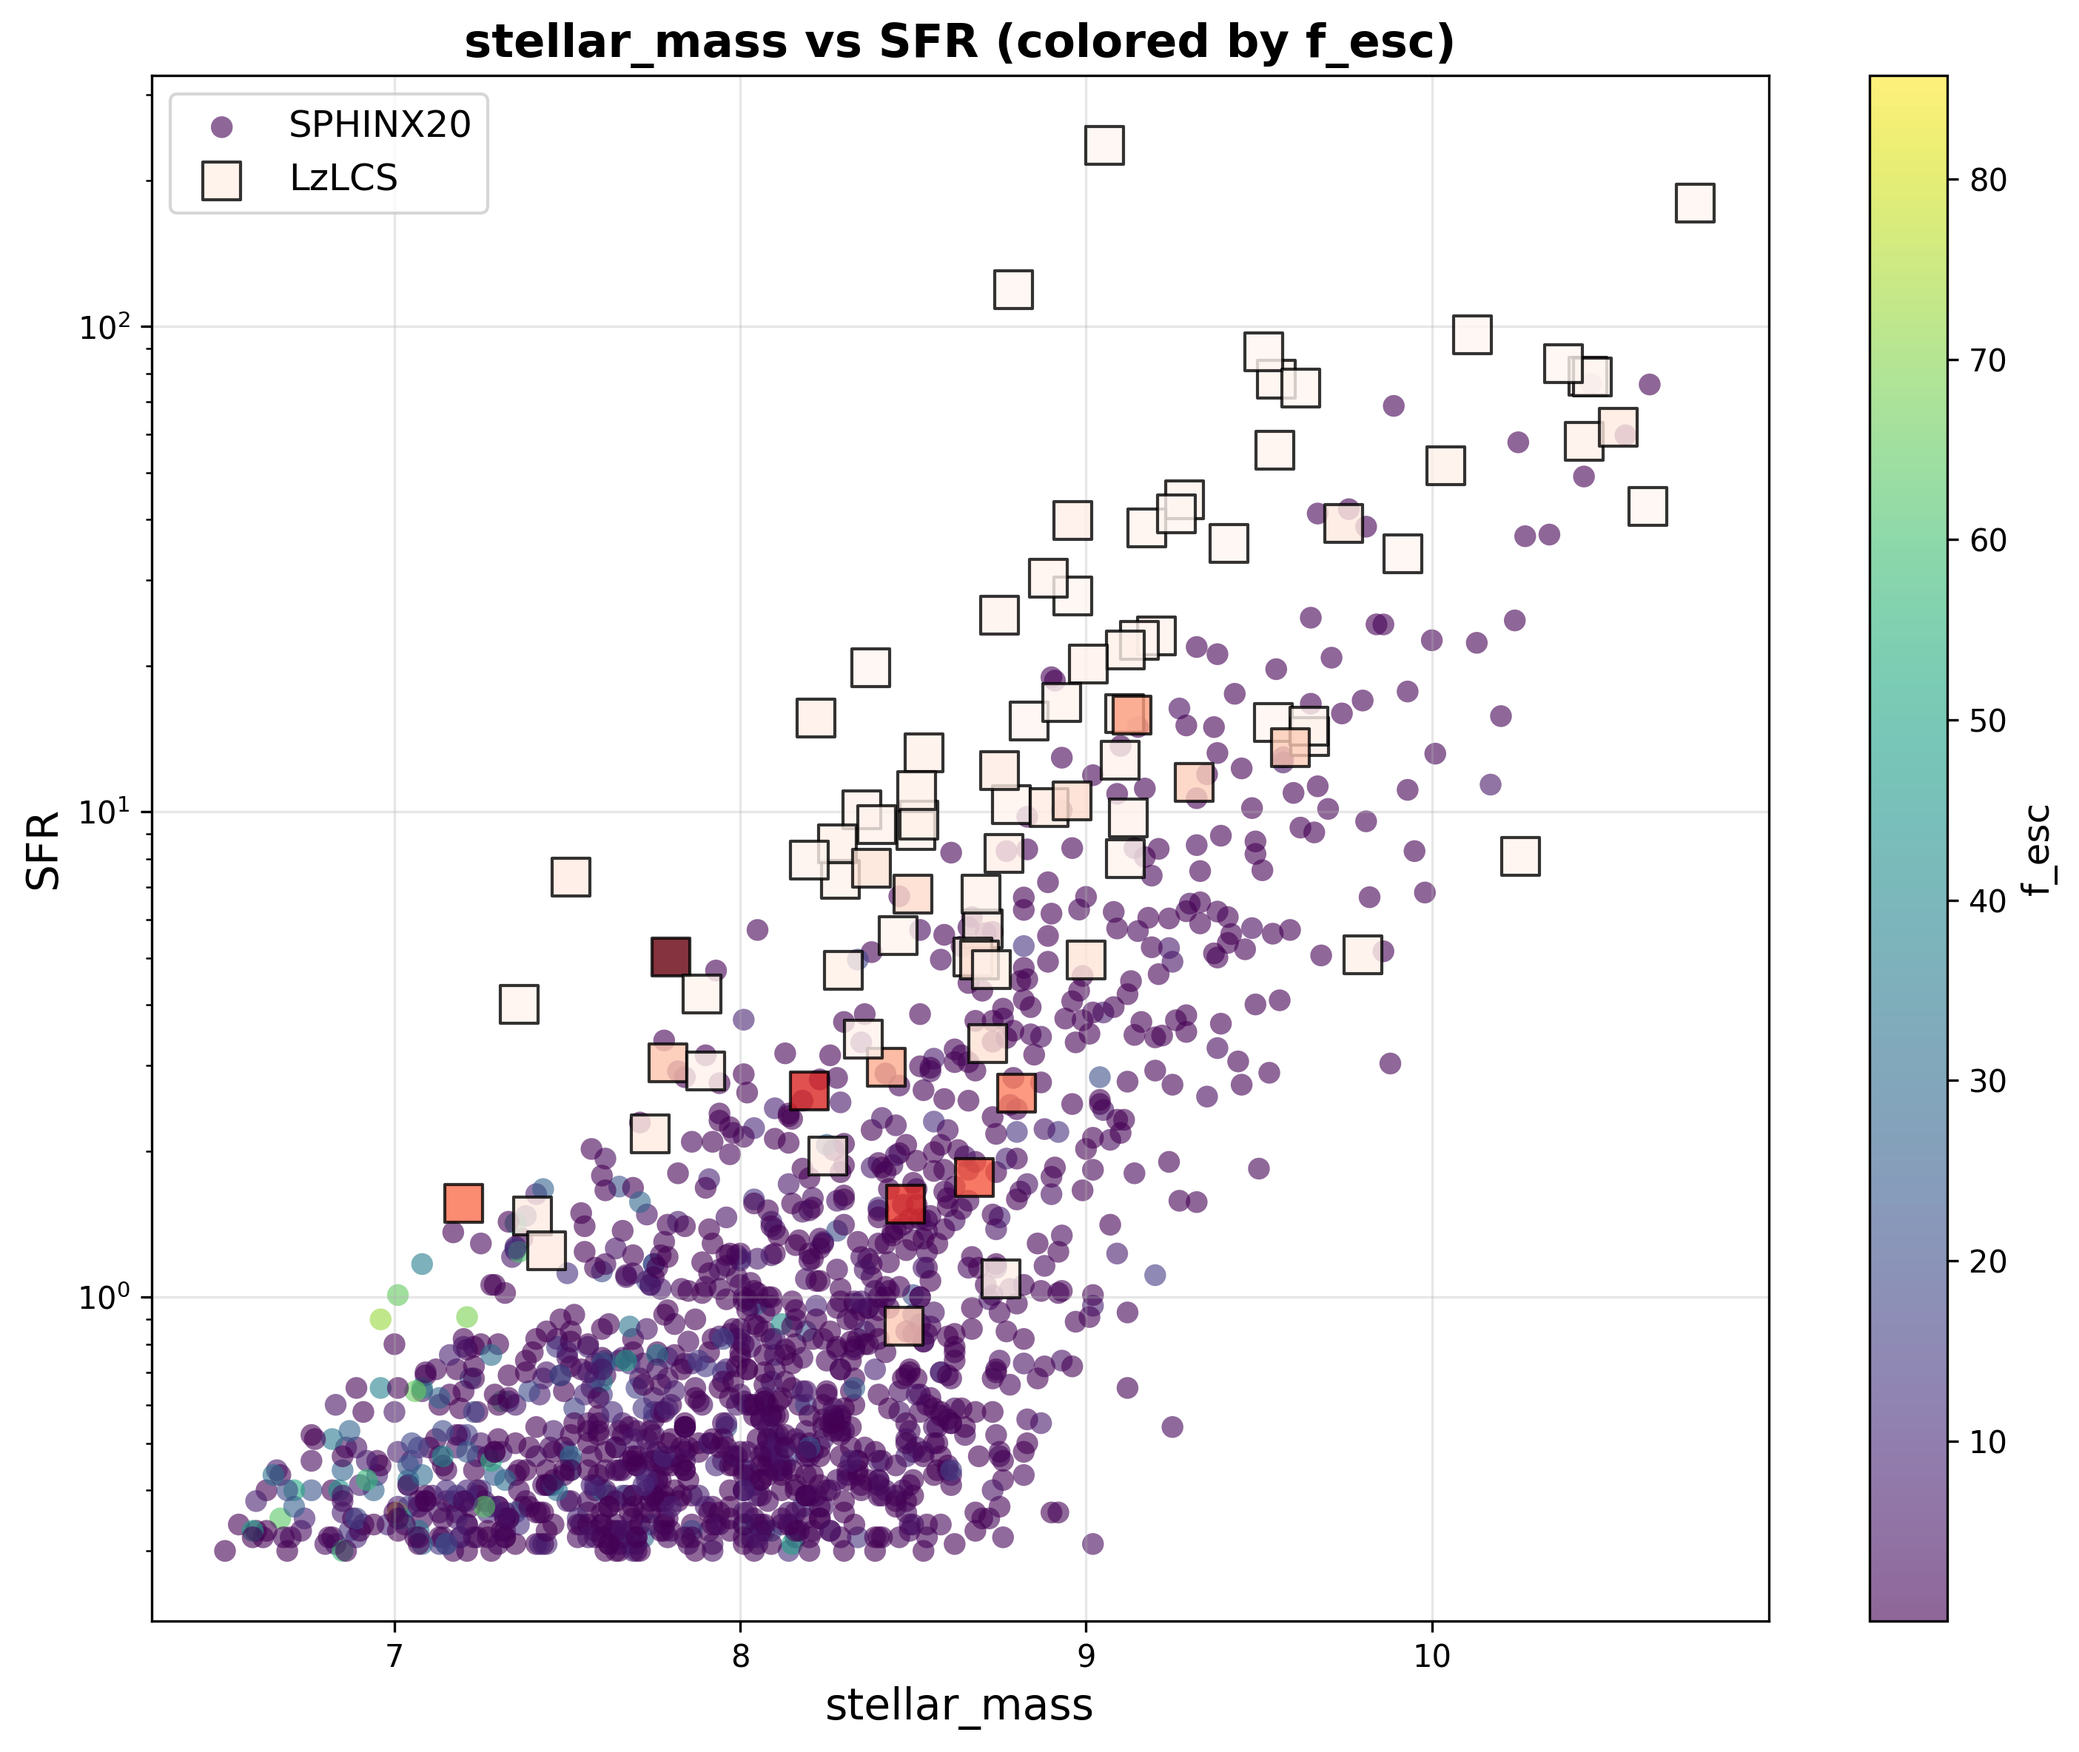
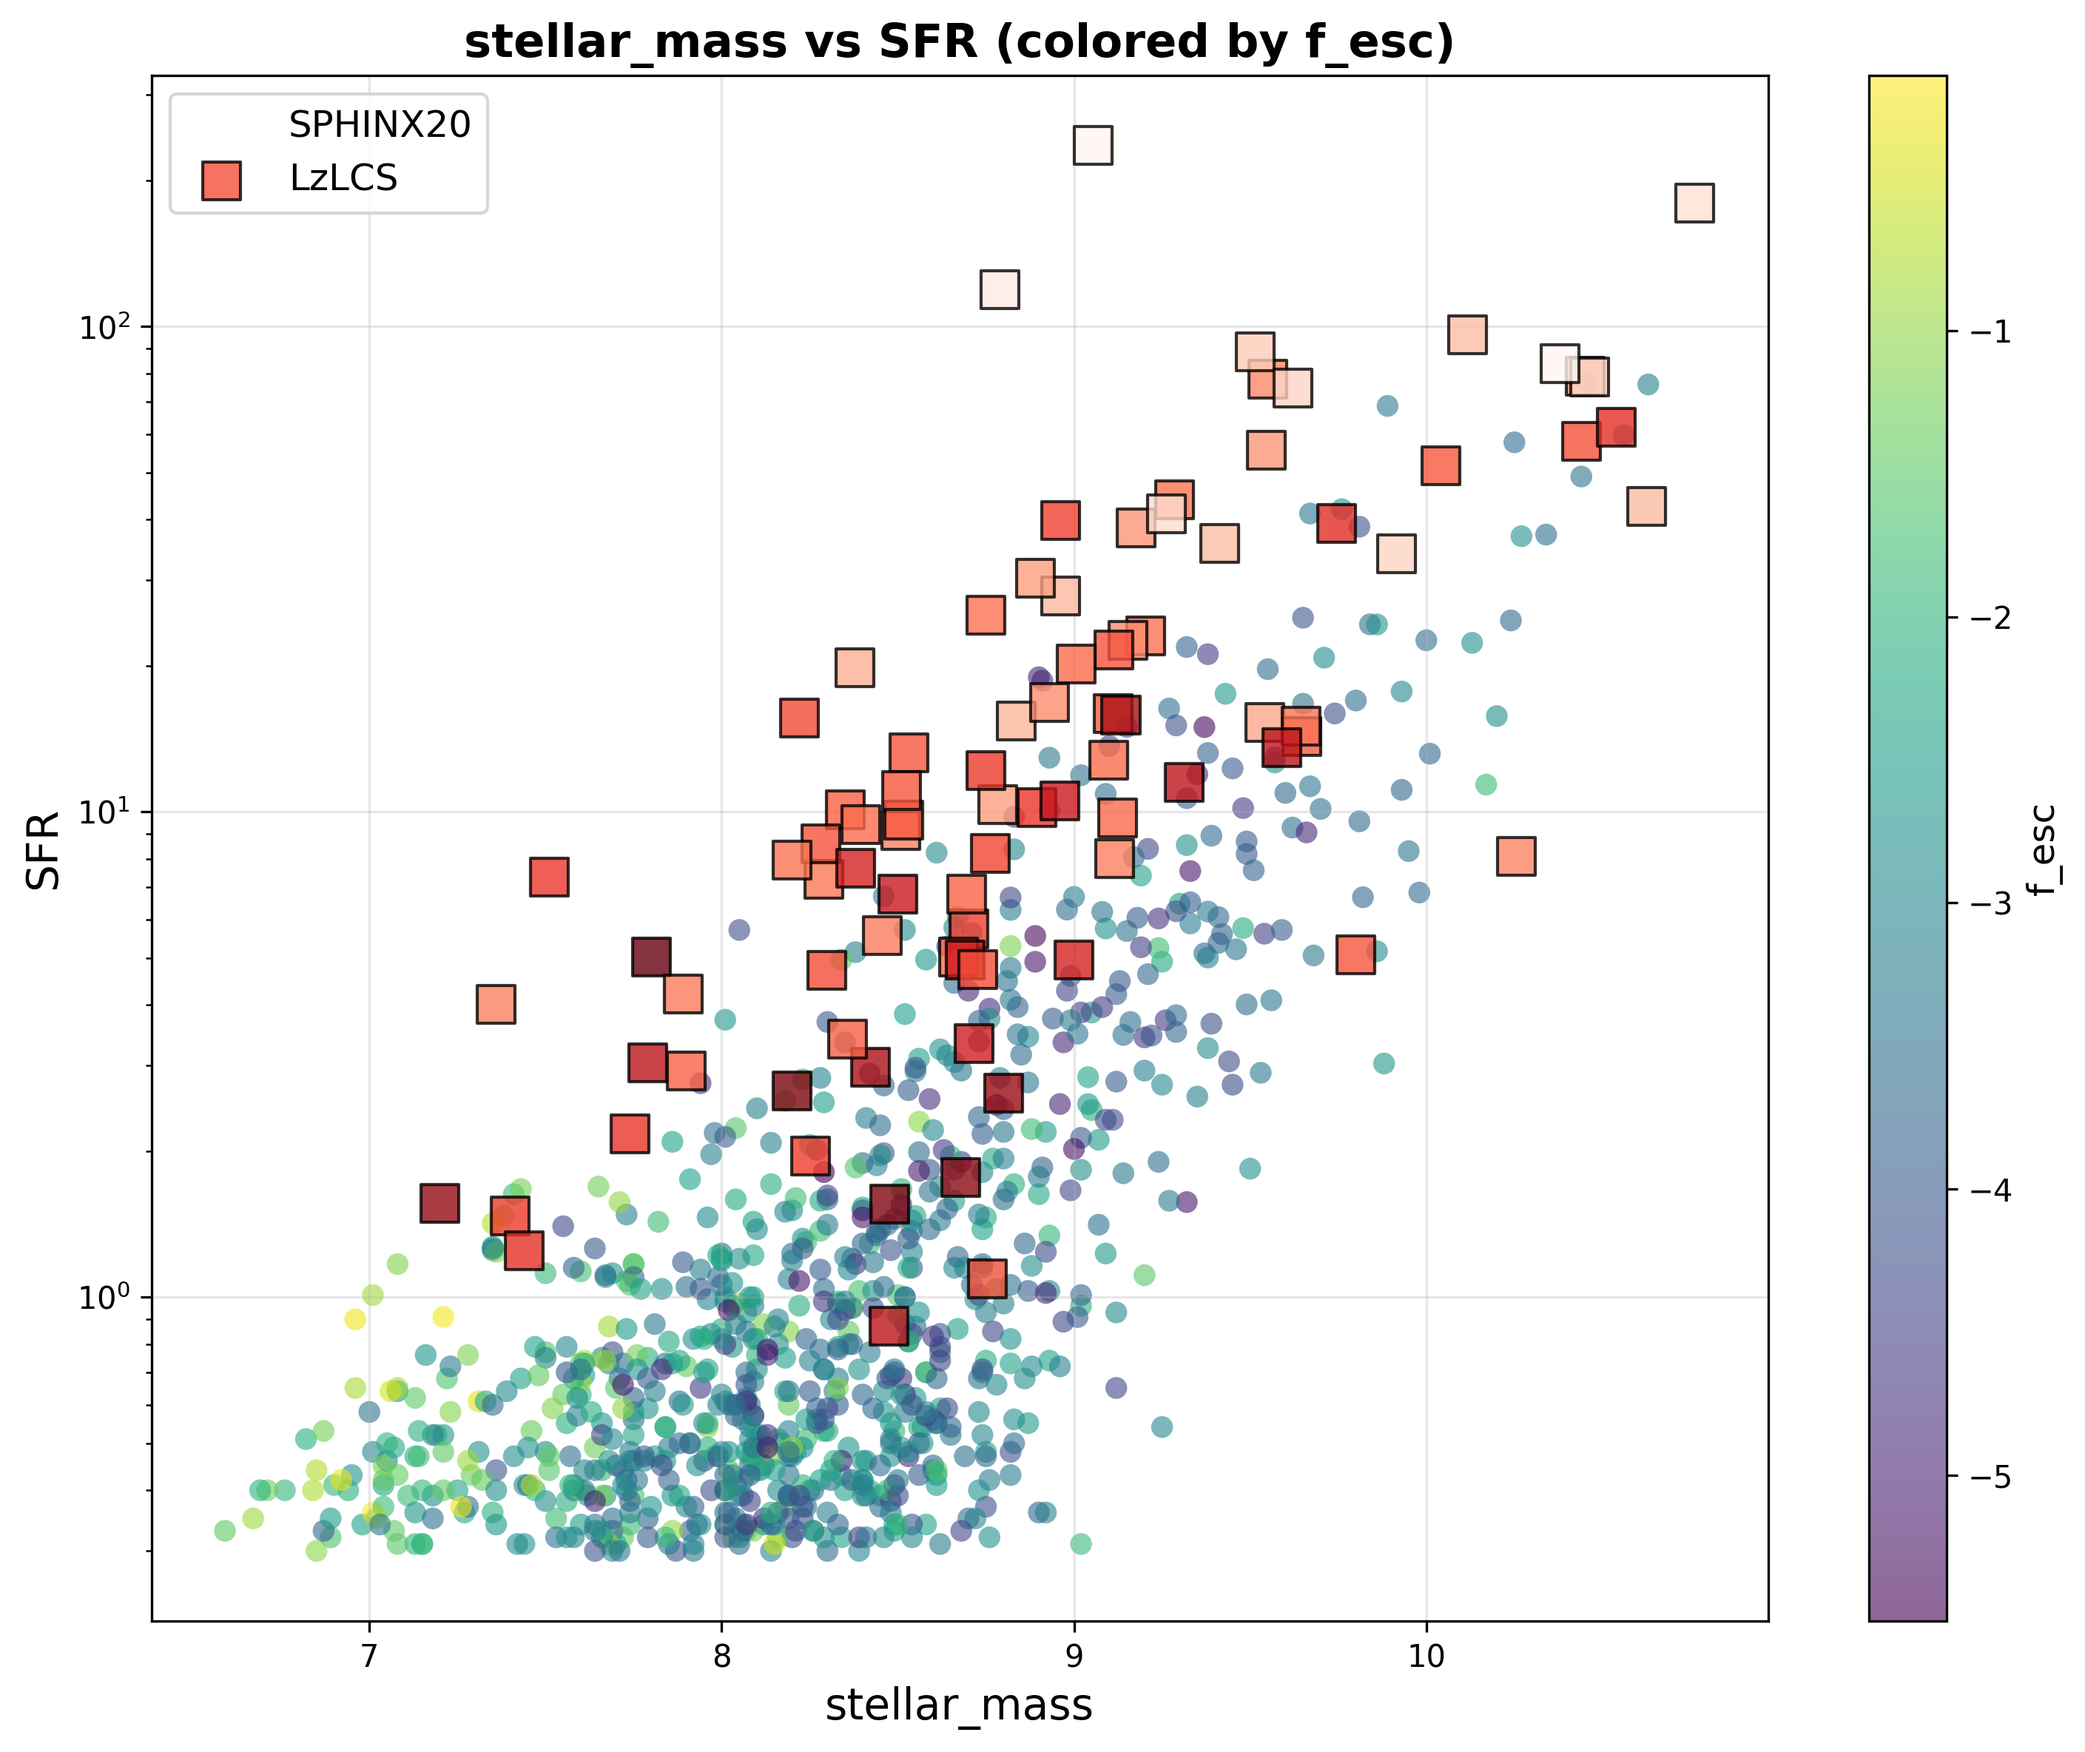
new diagnostics

diff --git a/sphinx_analysis/catalogues/CatalogueManager.py b/sphinx_analysis/catalogues/CatalogueManager.py
@@ -90,8 +90,9 @@ class CatalogueManager:
             oii = self.df['OII_3726.03_int'] + self.df['OII_3728.81_int']
             self.df['O32'] = np.log10(oiii / oii)
 
-        # Calculate sSFR
+        # Calculate sSFR and log10(sSFR)
         self.df['sSFR'] = np.log10(self.df['sfr_10'] / (10 ** self.df['stellar_mass']))
+        self.df['log10(sSFR)'] = self.df['sSFR']  # Alias for consistency
 
         # Calculate 12+log(O/H) from gas metallicity (assuming solar O/H = 8.69)
         self.df['12+log(O/H)'] = self.df['gas_metallicity'] + 8.69
@@ -102,37 +103,53 @@ class CatalogueManager:
         if 'OIII_5006.84_int' in self.df.columns and 'HI_4861.32_int' in self.df.columns:
             self.df['log_OIII_Hb'] = np.log10(self.df['OIII_5006.84_int'] / self.df['HI_4861.32_int'])
 
-        # Calculate zeta_ISM = E(B-V) * <n_H>_[OIII]
+        # Calculate log10(f_esc) for directional values
+        fesc_dir_cols = [col for col in self.df.columns if col.startswith('fesc_dir_') and col[-1].isdigit()]
+        if fesc_dir_cols:
+            for i in range(10):
+                fesc_col = f'fesc_dir_{i}'
+                if fesc_col in self.df.columns:
+                    # log10(f_esc) for this direction
+                    self.df[f'log10(f_esc)_dir_{i}'] = np.log10(self.df[fesc_col])
+            
+            # Calculate mean and std for log10(f_esc)
+            log_fesc_cols = [f'log10(f_esc)_dir_{i}' for i in range(10) if f'log10(f_esc)_dir_{i}' in self.df.columns]
+            if log_fesc_cols:
+                self.df['log10(f_esc)_mean'] = self.df[log_fesc_cols].mean(axis=1)
+                self.df['log10(f_esc)_std'] = self.df[log_fesc_cols].std(axis=1)
+                # Also create 'log10(f_esc)' as alias for mean
+                self.df['log10(f_esc)'] = self.df['log10(f_esc)_mean']
+
+        # Calculate zeta_ISM = E(B-V) * n_H (in cm^-3)
         # Create directional versions since E(B-V) is directional
-        if 'gas_density_3727' in self.df.columns and \
-                'OIII_4958.91_int' in self.df.columns and \
-                'OIII_5006.84_int' in self.df.columns:
-
-            # Get hydrogen density (not directional)
+        if 'gas_density_3727' in self.df.columns:
+            # Get hydrogen density (not directional) - already in log10
             n_H = self.df['gas_density_3727']
-
-            # Get [OIII] luminosities (4959Å + 5007Å doublet)
-            oiii_total = self.df['OIII_4958.91_int'] + self.df['OIII_5006.84_int']
-
-            # Calculate [OIII]-weighted hydrogen density (not directional)
-            self.df['n_H_weighted_OIII'] = n_H * oiii_total
-
+            
             # Calculate zeta_ISM for each direction (since E(B-V) is directional)
             ebv_cols = [col for col in self.df.columns if col.startswith('ebmv_dir_') and col[-1].isdigit()]
             if ebv_cols:
                 for i in range(10):
                     ebv_col = f'ebmv_dir_{i}'
                     if ebv_col in self.df.columns:
-                        # zeta_ISM for this direction
-                        self.df[f'zeta_ISM_dir_{i}'] = self.df[ebv_col] * self.df['n_H_weighted_OIII']
-
+                        # zeta_ISM = E(B-V) * n_H, where n_H is in log10
+                        # Result: zeta_ISM in cm^-3
+                        self.df[f'zeta_ISM_dir_{i}'] = self.df[ebv_col] * (10 ** n_H)
+                        self.df[f'log10(zeta_ISM)_dir_{i}'] = np.log10(self.df[f'zeta_ISM_dir_{i}'])
+                
                 # Also calculate mean and std across directions
                 zeta_cols = [f'zeta_ISM_dir_{i}' for i in range(10) if f'zeta_ISM_dir_{i}' in self.df.columns]
+                log_zeta_cols = [f'log10(zeta_ISM)_dir_{i}' for i in range(10) if f'log10(zeta_ISM)_dir_{i}' in self.df.columns]
+                
                 if zeta_cols:
                     self.df['zeta_ISM_mean'] = self.df[zeta_cols].mean(axis=1)
                     self.df['zeta_ISM_std'] = self.df[zeta_cols].std(axis=1)
-                    # Also create 'zeta_ISM' as alias for mean
-                    self.df['zeta_ISM'] = self.df['zeta_ISM_mean']
+                    self.df['zeta_ISM'] = self.df['zeta_ISM_mean']  # Alias
+                
+                if log_zeta_cols:
+                    self.df['log10(zeta_ISM)_mean'] = self.df[log_zeta_cols].mean(axis=1)
+                    self.df['log10(zeta_ISM)_std'] = self.df[log_zeta_cols].std(axis=1)
+                    self.df['log10(zeta_ISM)'] = self.df['log10(zeta_ISM)_mean']  # Alias
 
     def get_parameter(self, param_name: str, dataset: str = 'both',
                       direction: Optional[Union[int, str]] = None) -> Union[Tuple[pd.Series, pd.Series], pd.Series]:
@@ -218,25 +235,55 @@ class CatalogueManager:
             sim_data = self.df['sSFR']
             obs_data = self.observations['log10(SFR)-UV'] - self.observations['log10(Mstar)']
 
+        elif param_name == "log10(sSFR)":
+            sim_data = self.df['log10(sSFR)']
+            obs_data = self.observations['log10(SFR)-UV'] - self.observations['log10(Mstar)']
+
         # ============================================================
         # LYC ESCAPE FRACTION
         # ============================================================
 
         elif param_name == "f_esc":
-            sim_data = 10 ** self.df['f_esc'] * 100  # Percentage
+            # Return log10(f_esc) as default
+            if direction is None or direction == 'mean':
+                sim_data = self.df.get('log10(f_esc)_mean', self.df.get('log10(f_esc)', self.df['f_esc']))
+            elif direction == 'std':
+                sim_data = self.df.get('log10(f_esc)_std', None)
+            elif isinstance(direction, int) and 0 <= direction <= 9:
+                sim_data = self.df.get(f'log10(f_esc)_dir_{direction}', None)
+            else:
+                sim_data = self.df['f_esc']
+            obs_data = np.log10(self.observations['f_esc(LyC)-UVfit'])
+
+        elif param_name == "log10(f_esc)":
+            # Explicit log10(f_esc) request
+            if direction is None or direction == 'mean':
+                sim_data = self.df.get('log10(f_esc)_mean', self.df.get('log10(f_esc)', self.df['f_esc']))
+            elif direction == 'std':
+                sim_data = self.df.get('log10(f_esc)_std', None)
+            elif isinstance(direction, int) and 0 <= direction <= 9:
+                sim_data = self.df.get(f'log10(f_esc)_dir_{direction}', None)
+            else:
+                sim_data = self.df['f_esc']
+            obs_data = np.log10(self.observations['f_esc(LyC)-UVfit'])
+
+        elif param_name == "f_esc_percent":
+            # For those who still want percentage
+            sim_data = 10 ** self.df['f_esc'] * 100
             obs_data = self.observations['f_esc(LyC)-UVfit'] * 100
 
         elif param_name == "f_esc_log":
+            # Legacy alias
             sim_data = self.df['f_esc']
             obs_data = np.log10(self.observations['f_esc(LyC)-UVfit'])
 
         elif param_name == "f_esc_dir":
             if direction is None or direction == 'mean':
-                sim_data = self.df['fesc_dir_mean'] * 100
+                sim_data = self.df.get('log10(f_esc)_mean', self.df['fesc_dir_mean'])
             elif direction == 'std':
-                sim_data = self.df['fesc_dir_std'] * 100
+                sim_data = self.df.get('log10(f_esc)_std', self.df['fesc_dir_std'])
             elif isinstance(direction, int) and 0 <= direction <= 9:
-                sim_data = self.df[f'fesc_dir_{direction}'] * 100
+                sim_data = self.df.get(f'log10(f_esc)_dir_{direction}', self.df[f'fesc_dir_{direction}'])
             obs_data = None
 
         elif param_name == "f_esc_Lya":
@@ -264,7 +311,7 @@ class CatalogueManager:
         # ============================================================
 
         elif param_name == "age_star":
-            sim_data = self.df['mean_stellar_age_mass']
+            sim_data = self.df['mean_stellar_age_lion']
             obs_data = None
 
         # ============================================================
@@ -307,11 +354,11 @@ class CatalogueManager:
 
         elif param_name == "E(B-V)":
             if direction is None or direction == 'mean':
-                sim_data = self.df['ebmv_dir_mean']
+                sim_data = np.log10(self.df['ebmv_dir_mean'])
             elif direction == 'std':
-                sim_data = self.df['ebmv_dir_std']
+                sim_data = np.log10(self.df['ebmv_dir_std'])
             elif isinstance(direction, int) and 0 <= direction <= 9:
-                sim_data = self.df[f'ebmv_dir_{direction}']
+                sim_data = np.log10(self.df[f'ebmv_dir_{direction}'])
             obs_data = None
 
         elif param_name == "E(B-V)_nebular":
@@ -323,7 +370,31 @@ class CatalogueManager:
             obs_data = self.observations['E(B-V)_uv']
 
         elif param_name == "zeta_ISM":
-            # zeta_ISM = E(B-V) * <n_H>_[OIII] (directional)
+            # zeta_ISM returns log10 by default
+            if direction is None or direction == 'mean':
+                sim_data = self.df.get('log10(zeta_ISM)_mean', self.df.get('log10(zeta_ISM)', None))
+            elif direction == 'std':
+                sim_data = self.df.get('log10(zeta_ISM)_std', None)
+            elif isinstance(direction, int) and 0 <= direction <= 9:
+                sim_data = self.df.get(f'log10(zeta_ISM)_dir_{direction}', None)
+            else:
+                sim_data = None
+            obs_data = None
+
+        elif param_name == "log10(zeta_ISM)":
+            # log10(zeta_ISM) - explicit alias
+            if direction is None or direction == 'mean':
+                sim_data = self.df.get('log10(zeta_ISM)_mean', self.df.get('log10(zeta_ISM)', None))
+            elif direction == 'std':
+                sim_data = self.df.get('log10(zeta_ISM)_std', None)
+            elif isinstance(direction, int) and 0 <= direction <= 9:
+                sim_data = self.df.get(f'log10(zeta_ISM)_dir_{direction}', None)
+            else:
+                sim_data = None
+            obs_data = None
+
+        elif param_name == "zeta_ISM_linear":
+            # Linear zeta_ISM if you really need it
             if direction is None or direction == 'mean':
                 sim_data = self.df.get('zeta_ISM_mean', self.df.get('zeta_ISM', None))
             elif direction == 'std':
@@ -334,9 +405,9 @@ class CatalogueManager:
                 sim_data = None
             obs_data = None
 
-        elif param_name == "n_H_weighted_OIII":
-            # [OIII]-weighted hydrogen density (not directional)
-            sim_data = self.df.get('n_H_weighted_OIII', None)
+        elif param_name == "n_H":
+            # Hydrogen density (not directional)
+            sim_data = self.df.get('gas_density_3727', None)
             obs_data = None
 
         # ============================================================

diff --git a/sphinx_analysis/analyser/LyCDiagnostics.py b/sphinx_analysis/analyser/LyCDiagnostics.py
@@ -302,7 +302,7 @@ class LyCDiagnostics:
             if color_param and c_data is not None:
                 scatter = ax.scatter(
                     x_data[mask], y_data[mask],
-                    c=c_data[mask],
+                    c=(c_data[mask]),
                     cmap='viridis',
                     alpha=0.5,
                     s=30,
